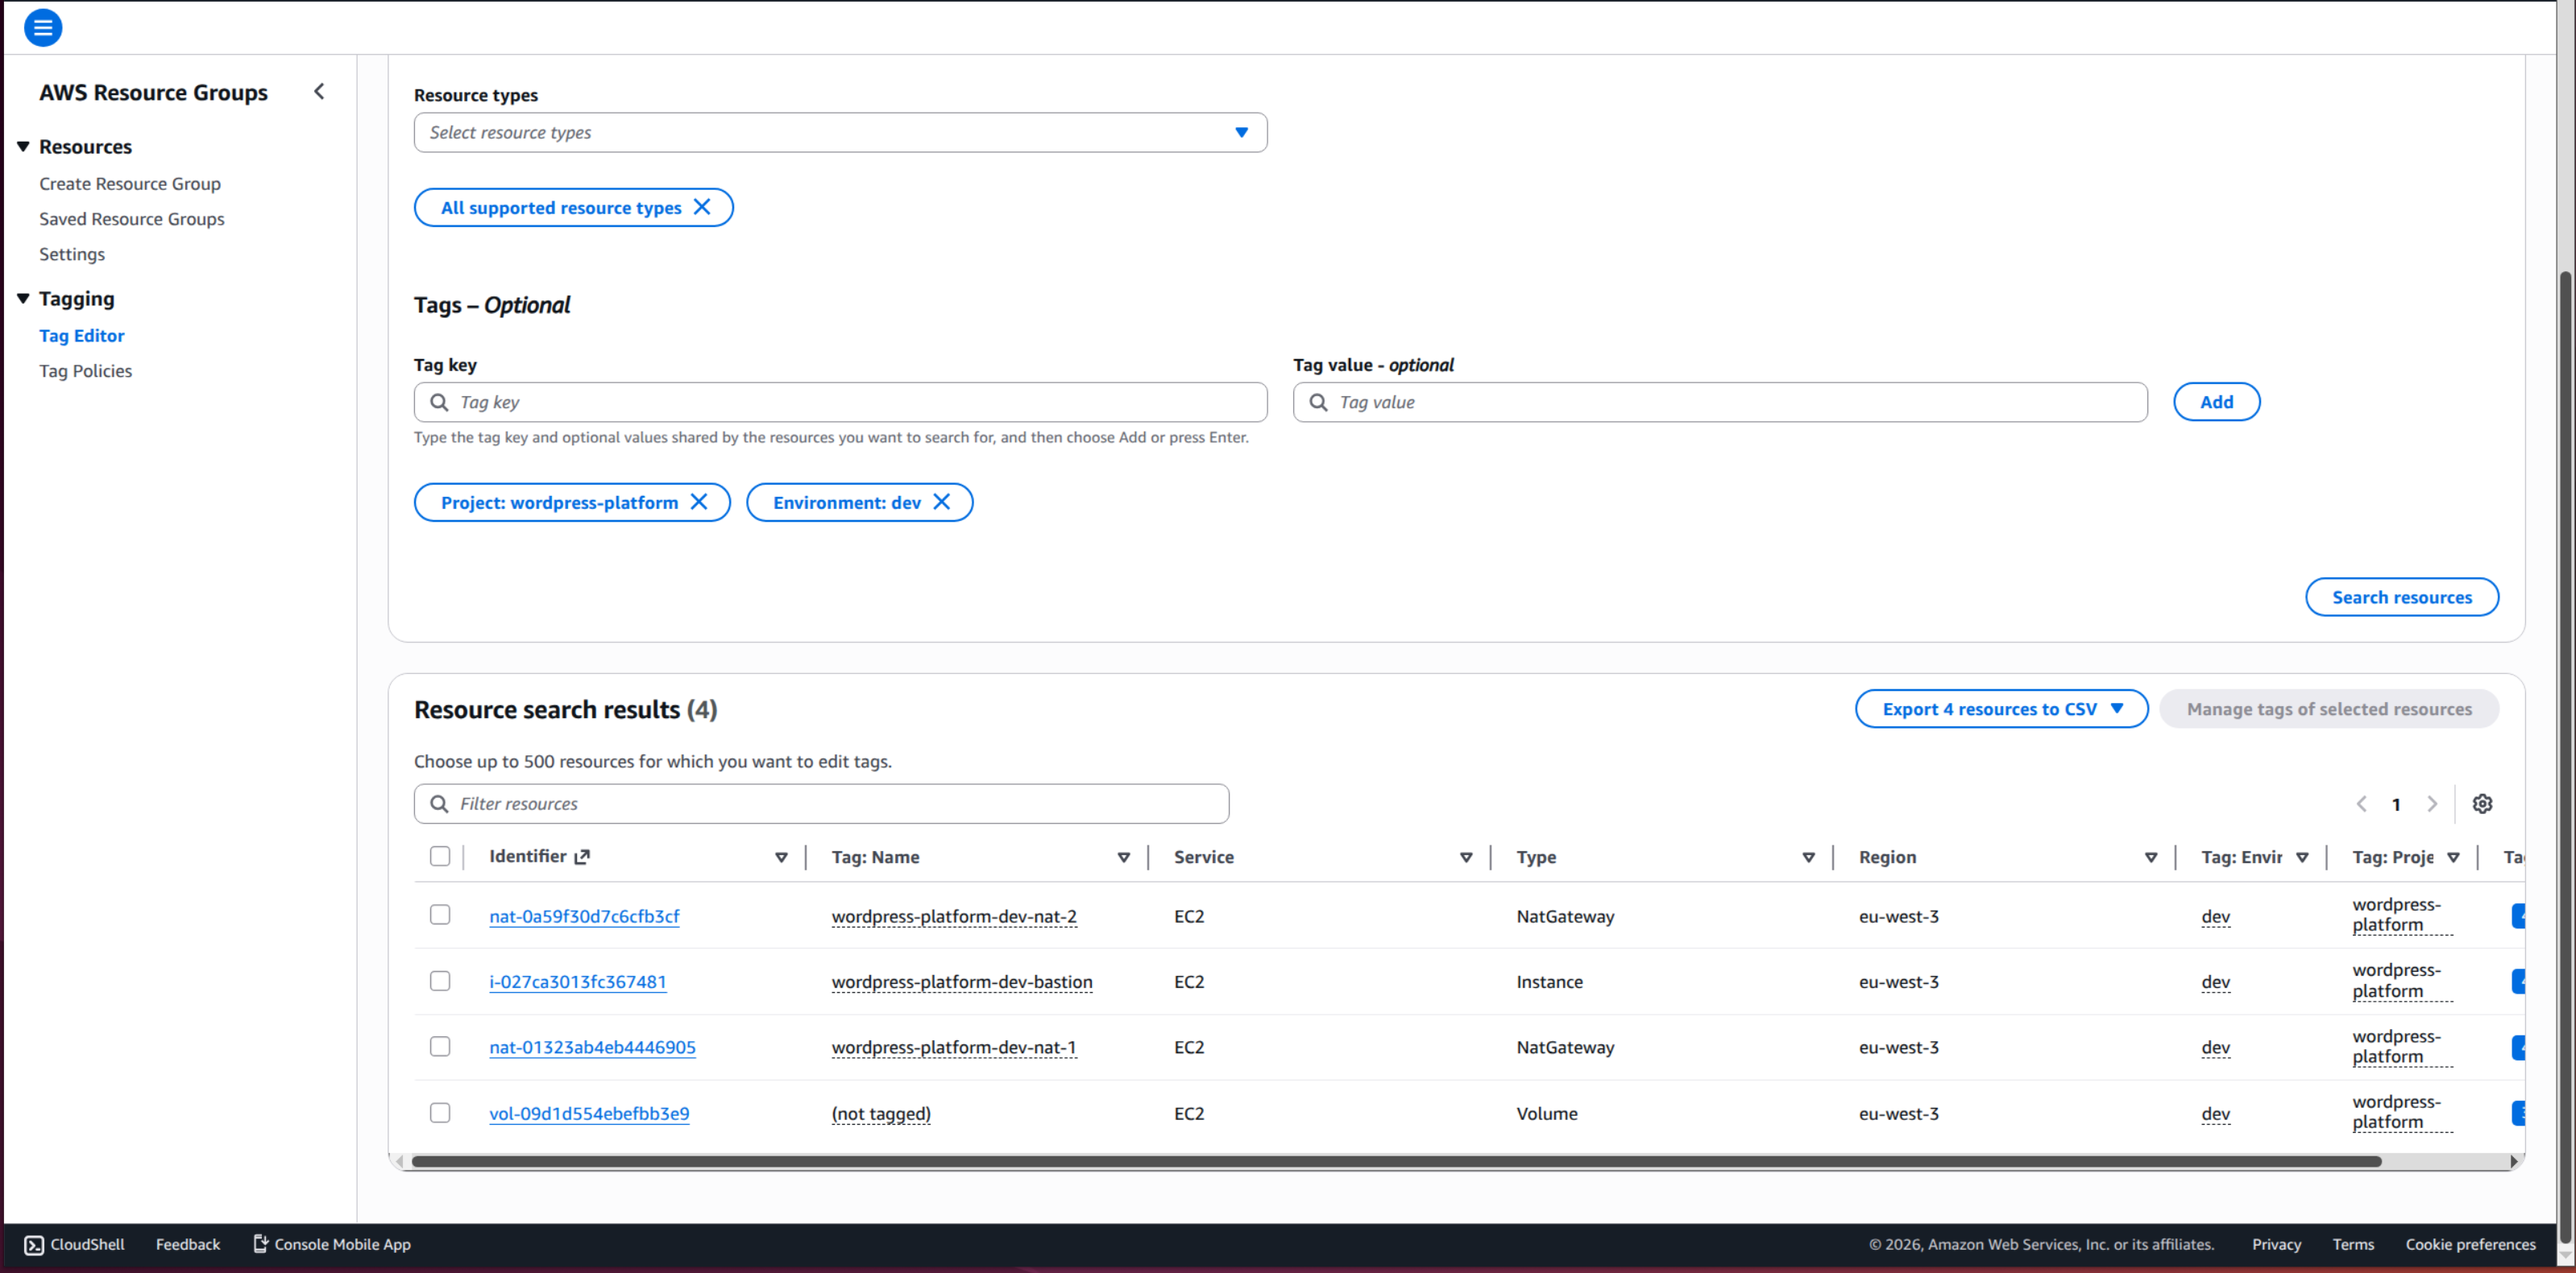
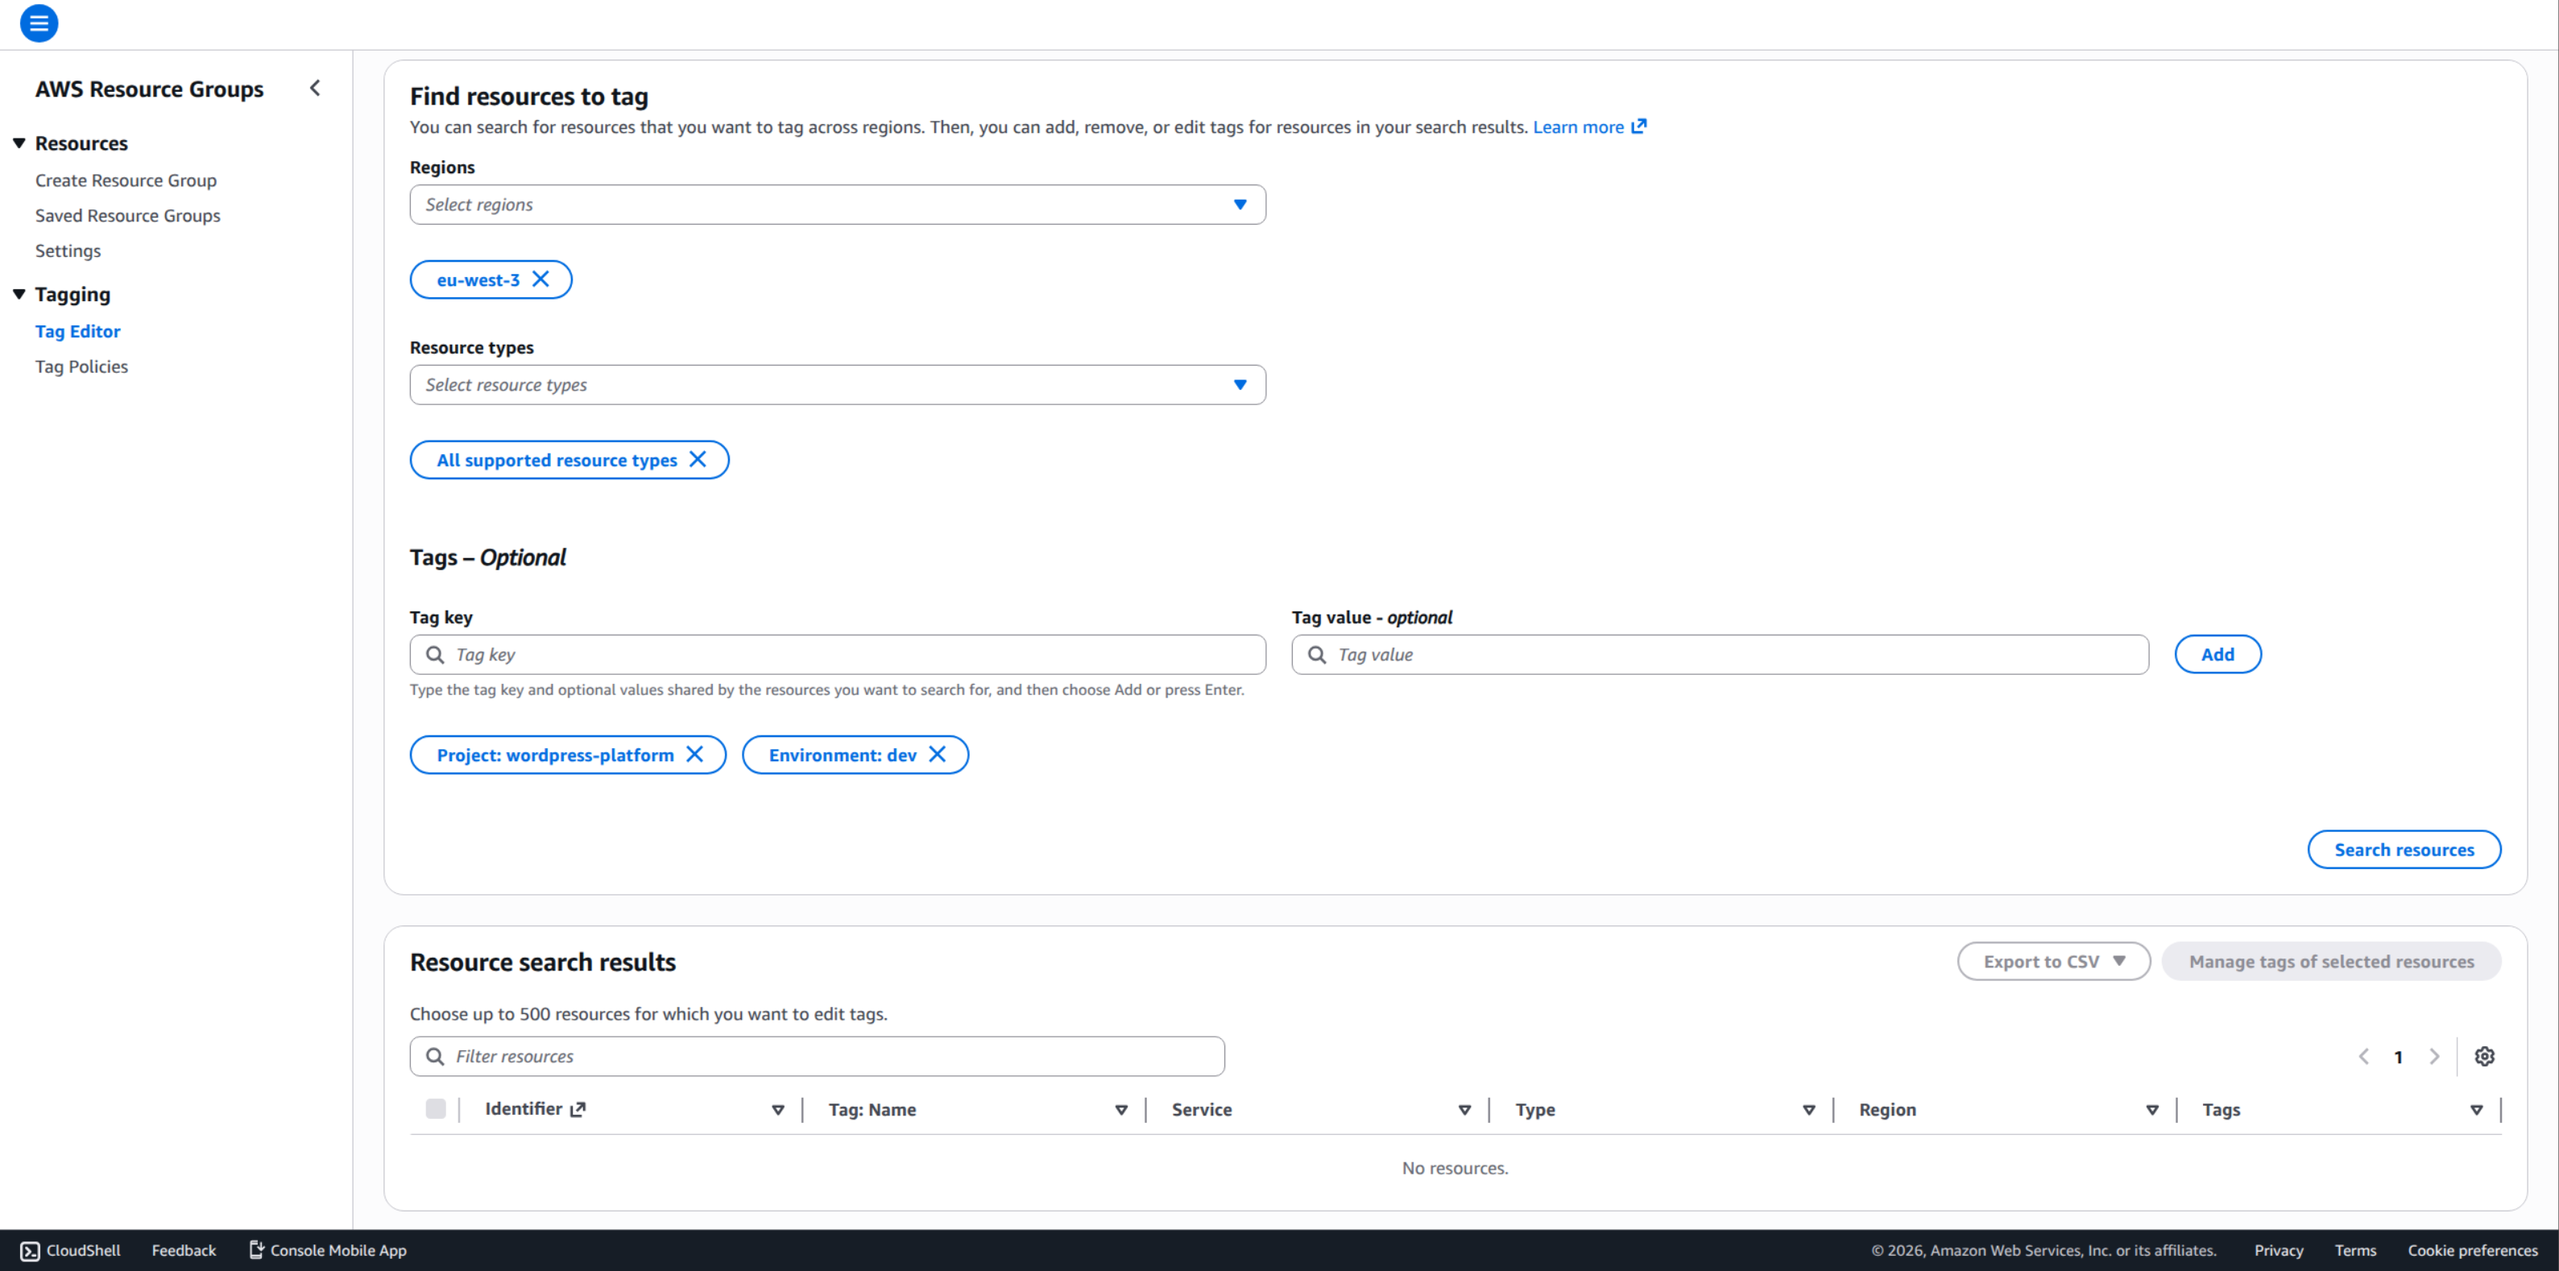
docs(runbook): Add runbook for Terraform deployment, verification, and cleanup + capture further evidence

diff --git a/docs/RUNBOOK.md b/docs/RUNBOOK.md
@@ -1,0 +1,254 @@
+# 🧭 Runbook (TL;DR): Highly Available WordPress Platform on AWS with Terraform
+
+> ## 👤 About
+> This runbook is the **short, command-first guide** for rerunning the project once the workstation and AWS account are already prepared.  
+> It focuses on the **happy-path execution flow**: initialize, validate, plan, apply, verify, and destroy.  
+> For the full implementation narrative, concepts, and evidence mapping, see: **[docs/IMPLEMENTATION.md](IMPLEMENTATION.md)**.  
+> For setup, IAM, AWS CLI, and budget preparation, see: **[docs/SETUP.md](SETUP.md)**.
+
+---
+
+## 📌 Index (top-level)
+
+- [**Preconditions**](#preconditions)
+- [**Step 01 - Initialize Terraform**](#step-01---initialize-terraform)
+- [**Step 02 - Format and validate the configuration**](#step-02---format-and-validate-the-configuration)
+- [**Step 03 - Save and inspect the plan**](#step-03---save-and-inspect-the-plan)
+- [**Step 04 - Apply the reviewed infrastructure**](#step-04---apply-the-reviewed-infrastructure)
+- [**Step 05 - Verify the live stack quickly in AWS and browser**](#step-05---verify-the-live-stack-quickly-in-aws-and-browser)
+- [**Step 06 - Optional DB inspection via bastion**](#step-06---optional-db-inspection-via-bastion)
+- [**Step 07 - Destroy the stack**](#step-07---destroy-the-stack)
+- [**Step 08 - Post-destroy proof**](#step-08---post-destroy-proof)
+
+---
+
+## Preconditions
+
+The Runbook assumes that the following steps are already completed:
+
+- Terraform installed
+- AWS CLI installed
+- IAM user created
+- AWS CLI profile configured
+- local `terraform.tfvars` present
+- AWS Budget created
+- repository files already in place
+
+If any of that is missing, use **[docs/SETUP.md](SETUP.md)** first.
+
+FYI: The various **Make targets** are used as the primary command. The underlying raw Terraform or AWS commands are shown directly underneath in the `runs:` line for transparency + learning support.
+
+---
+
+## Step 01 - Initialize Terraform
+
+~~~bash
+# Initialize the Terraform working directory, providers, and module metadata.
+# runs: terraform init
+make init
+~~~ 
+
+### Important note
+
+If the module structure changed since the last run, rerun `make init` before `make validate`, `make plan-save`, or `make apply`.
+
+---
+
+## Step 02 - Format and validate the configuration
+
+~~~bash
+# Format all Terraform files in the root module and child modules.
+# runs: 'terraform fmt -recursive'
+make fmt
+
+ 
+# Check whether the configuration is structurally valid.
+# runs: 'terraform validate'
+make validate
+~~~
+
+---
+
+## Step 03 - Save and inspect the plan
+
+~~~bash
+# Save the current reviewed plan to a file so the exact same plan can later be applied.
+# runs: 'terraform plan -out=tfplan'
+make plan-save
+
+ 
+# Show a readable summary of create/update/delete actions from the saved plan.
+# runs: 'terraform show -json tfplan | jq -r '...' '
+make plan-summary
+
+ 
+# Show grouped counts of changed resource types from the saved plan.
+# runs: 'terraform show -json tfplan | jq -r '...' '
+make plan-counts
+~~~
+
+### Optional inspection helpers
+
+~~~bash
+# Export the saved plan as JSON for further analysis tools.
+# runs: 'terraform show -json tfplan > plan.json'
+make plan-json
+ 
+# Render the Terraform dependency graph as SVG.
+# runs: 'terraform graph -type=plan | dot -Tsvg > terraform-plan-graph.svg'
+make graph-plan-svg
+ 
+# Render the Terraform dependency graph as PNG.
+# runs: 'terraform graph -type=plan | dot -Tpng > terraform-plan-graph.png'
+make graph-plan-png
+ 
+# Generate an infrastructure graph from the Terraform configuration.
+# runs: 'inframap generate . | dot -Tpng > inframap.png'
+make inframap-png
+~~~
+
+---
+
+## Step 04 - Apply the reviewed infrastructure
+
+~~~bash
+# Apply the previously saved Terraform plan exactly as reviewed.
+# runs: 'terraform apply tfplan'
+make apply
+
+# Print the Terraform outputs after apply.
+# runs: 'terraform output'
+make output
+~~~ 
+
+### Expected important outputs
+
+- `alb_dns_name`
+- `asg_name`
+- `bastion_public_ip`
+- `db_endpoint`
+- `public_subnet_ids`
+- `private_subnet_ids`
+- `selected_azs`
+- `vpc_id`
+
+---
+
+## Step 05 - Verify the live stack quickly in AWS and browser
+
+### Verification order
+
+1. **EC2 -> Target Groups -> Targets**  
+   Wait until the web targets become healthy.
+2. Open the **ALB DNS name** from Terraform outputs in a browser.
+3. Capture **AWS Console + Wordpress screenshots**:
+
+### AWS Console locations / resources to verify + capture
+
+#### VPC console
+- **VPCs**
+- **Subnets**
+- **NAT gateways**
+
+#### RDS console
+- **Databases**
+- click the DB instance
+- open **Connectivity & security**
+
+#### EC2 console
+- **Load Balancers**
+- **Target Groups**
+- **Auto Scaling Groups**
+- **Instances**
+
+### Browser verification
+
+**Open the ALB DNS name** from `make output` in the browser and confirm that WordPress loads.
+
+### Summary: Evidence to capture
+
+- Terminal output of `make apply`
+- Terminal output of `make output`
+- WordPress browser screenshots
+- AWS screenshots for:
+  - VPC
+  - subnets
+  - NAT gateways
+  - RDS
+  - ALB
+  - Auto Scaling Group
+  - EC2 instances
+  - target group / target health
+
+**The project evidence inventory** is stored under:
+- `docs/evidence/aws/`
+- `docs/evidence/wp/`
+
+---
+
+## Step 06 - Optional DB inspection via bastion
+
+~~~bash
+# SSH into the bastion host using the local private key.
+# runs: ssh -i ~/.ssh/id_ed25519 ubuntu@<bastion_public_ip>
+ssh -i ~/.ssh/id_ed25519 ubuntu@<bastion_public_ip>
+ 
+# Install the MySQL client on the bastion.
+# runs: sudo apt-get update && sudo apt-get install -y mysql-client
+sudo apt-get update && sudo apt-get install -y mysql-client
+ 
+# Connect from the bastion to the private RDS endpoint.
+# runs: mysql -h <db_endpoint> -P 3306 -u <db_user> -p
+mysql -h <db_endpoint> -P 3306 -u <db_user> -p
+~~~
+
+### Useful SQL checks
+
+~~~sql
+SHOW DATABASES;
+USE wordpress;
+SHOW TABLES;
+SELECT ID, user_login, user_email FROM wp_users;
+~~~
+
+---
+
+## Step 07 - Destroy the stack
+
+
+~~~bash
+# Preview the planned destruction before deleting the stack.
+# runs: terraform plan -destroy
+terraform plan -destroy
+
+# Destroy all Terraform-managed resources.
+# runs: terraform destroy
+make destroy
+~~~
+
+### Cost reminder
+
+The AWS Budget provides **cost visibility and alerting**, but it is **not** the real shutdown mechanism. The actual stack teardown command is:
+
+~~~bash
+make destroy
+~~~
+---
+
+## Step 08 - Post-destroy proof
+
+### Post-destroy checks
+
+- **Terminal output of `make destroy`**
+- **AWS Tag Editor search** showing no active matching project resources - use the following settings to filter the ressouces accordingly:
+    - **Region:** `eu-west-3`
+    - **Ressource types:** `All supported ressource types`
+    - **Tags:**
+        - `Project: wordpress-platform`
+        - `Environment: dev` 
+
+- **NAT gateway view** showing deleted / terminated / deleting state if it lingers briefly
+- **EC2 instance view** showing terminated state if it still remains visible briefly
+- **AWS Budget overview** after destroy
+
+**Hint:** Some AWS console views can lag briefly after destroy (the AWS Tag Editor f.i.).  

diff --git a/README.md b/README.md
@@ -337,16 +337,16 @@ Provision a WordPress platform on AWS with Terraform using a modular IaC structu
 - NAT gateway in each public subnet
 - WordPress web tier on `t2.micro` instances
 - Auto Scaling Group with min `1` / max `2`
-- automatic infrastructure lookup where relevant (for example Availability Zones / AMI)
+- Automatic infrastructure lookup where relevant (for example Availability Zones / AMI)
 - `aws_db_instance` database layer on `db.t3.micro`
 - ALB for public HTTP access
-- bastion host
-- modular Terraform code
-- no hardcoded secrets in committed source
+- Bastion host
+- Modular Terraform code
+- No hardcoded secrets in committed source
 
 **Expected proof / deliverables covered here:**
-- modular Terraform repository
-- successful plan / apply / destroy flow
+- Modular Terraform repository
+- Successful plan / apply / destroy flow
 - AWS Console validation screenshots
-- browser-based WordPress proof
-- reproducible documentation in `README.md`, `docs/SETUP.md`, `docs/RUNBOOK.md`, and `docs/IMPLEMENTATION.md`
+- Browser-based WordPress proof
+- Reproducible documentation (here delivered in `README.md`, `docs/SETUP.md`, `docs/RUNBOOK.md`, and `docs/IMPLEMENTATION.md`

diff --git a/docs/IMPLEMENTATION.md b/docs/IMPLEMENTATION.md
@@ -148,9 +148,8 @@ touch modules/bastion/{main.tf,variables.tf,outputs.tf}
 - `modules/*` separates infrastructure responsibilities.
 - `user_data/wordpress.sh.tftpl` keeps the EC2 bootstrap logic out of the main HCL files.
 
-
 > [!NOTE]
-> **The Terraform AWS provider?**  
+> **Terraform AWS provider**  
 > The **Terraform AWS provider** is the plugin Terraform uses to talk to AWS APIs.  
 > It is what makes resource blocks such as `aws_vpc`, `aws_subnet`, `aws_db_instance`, and `aws_lb` actually work.  
 > In this project:
